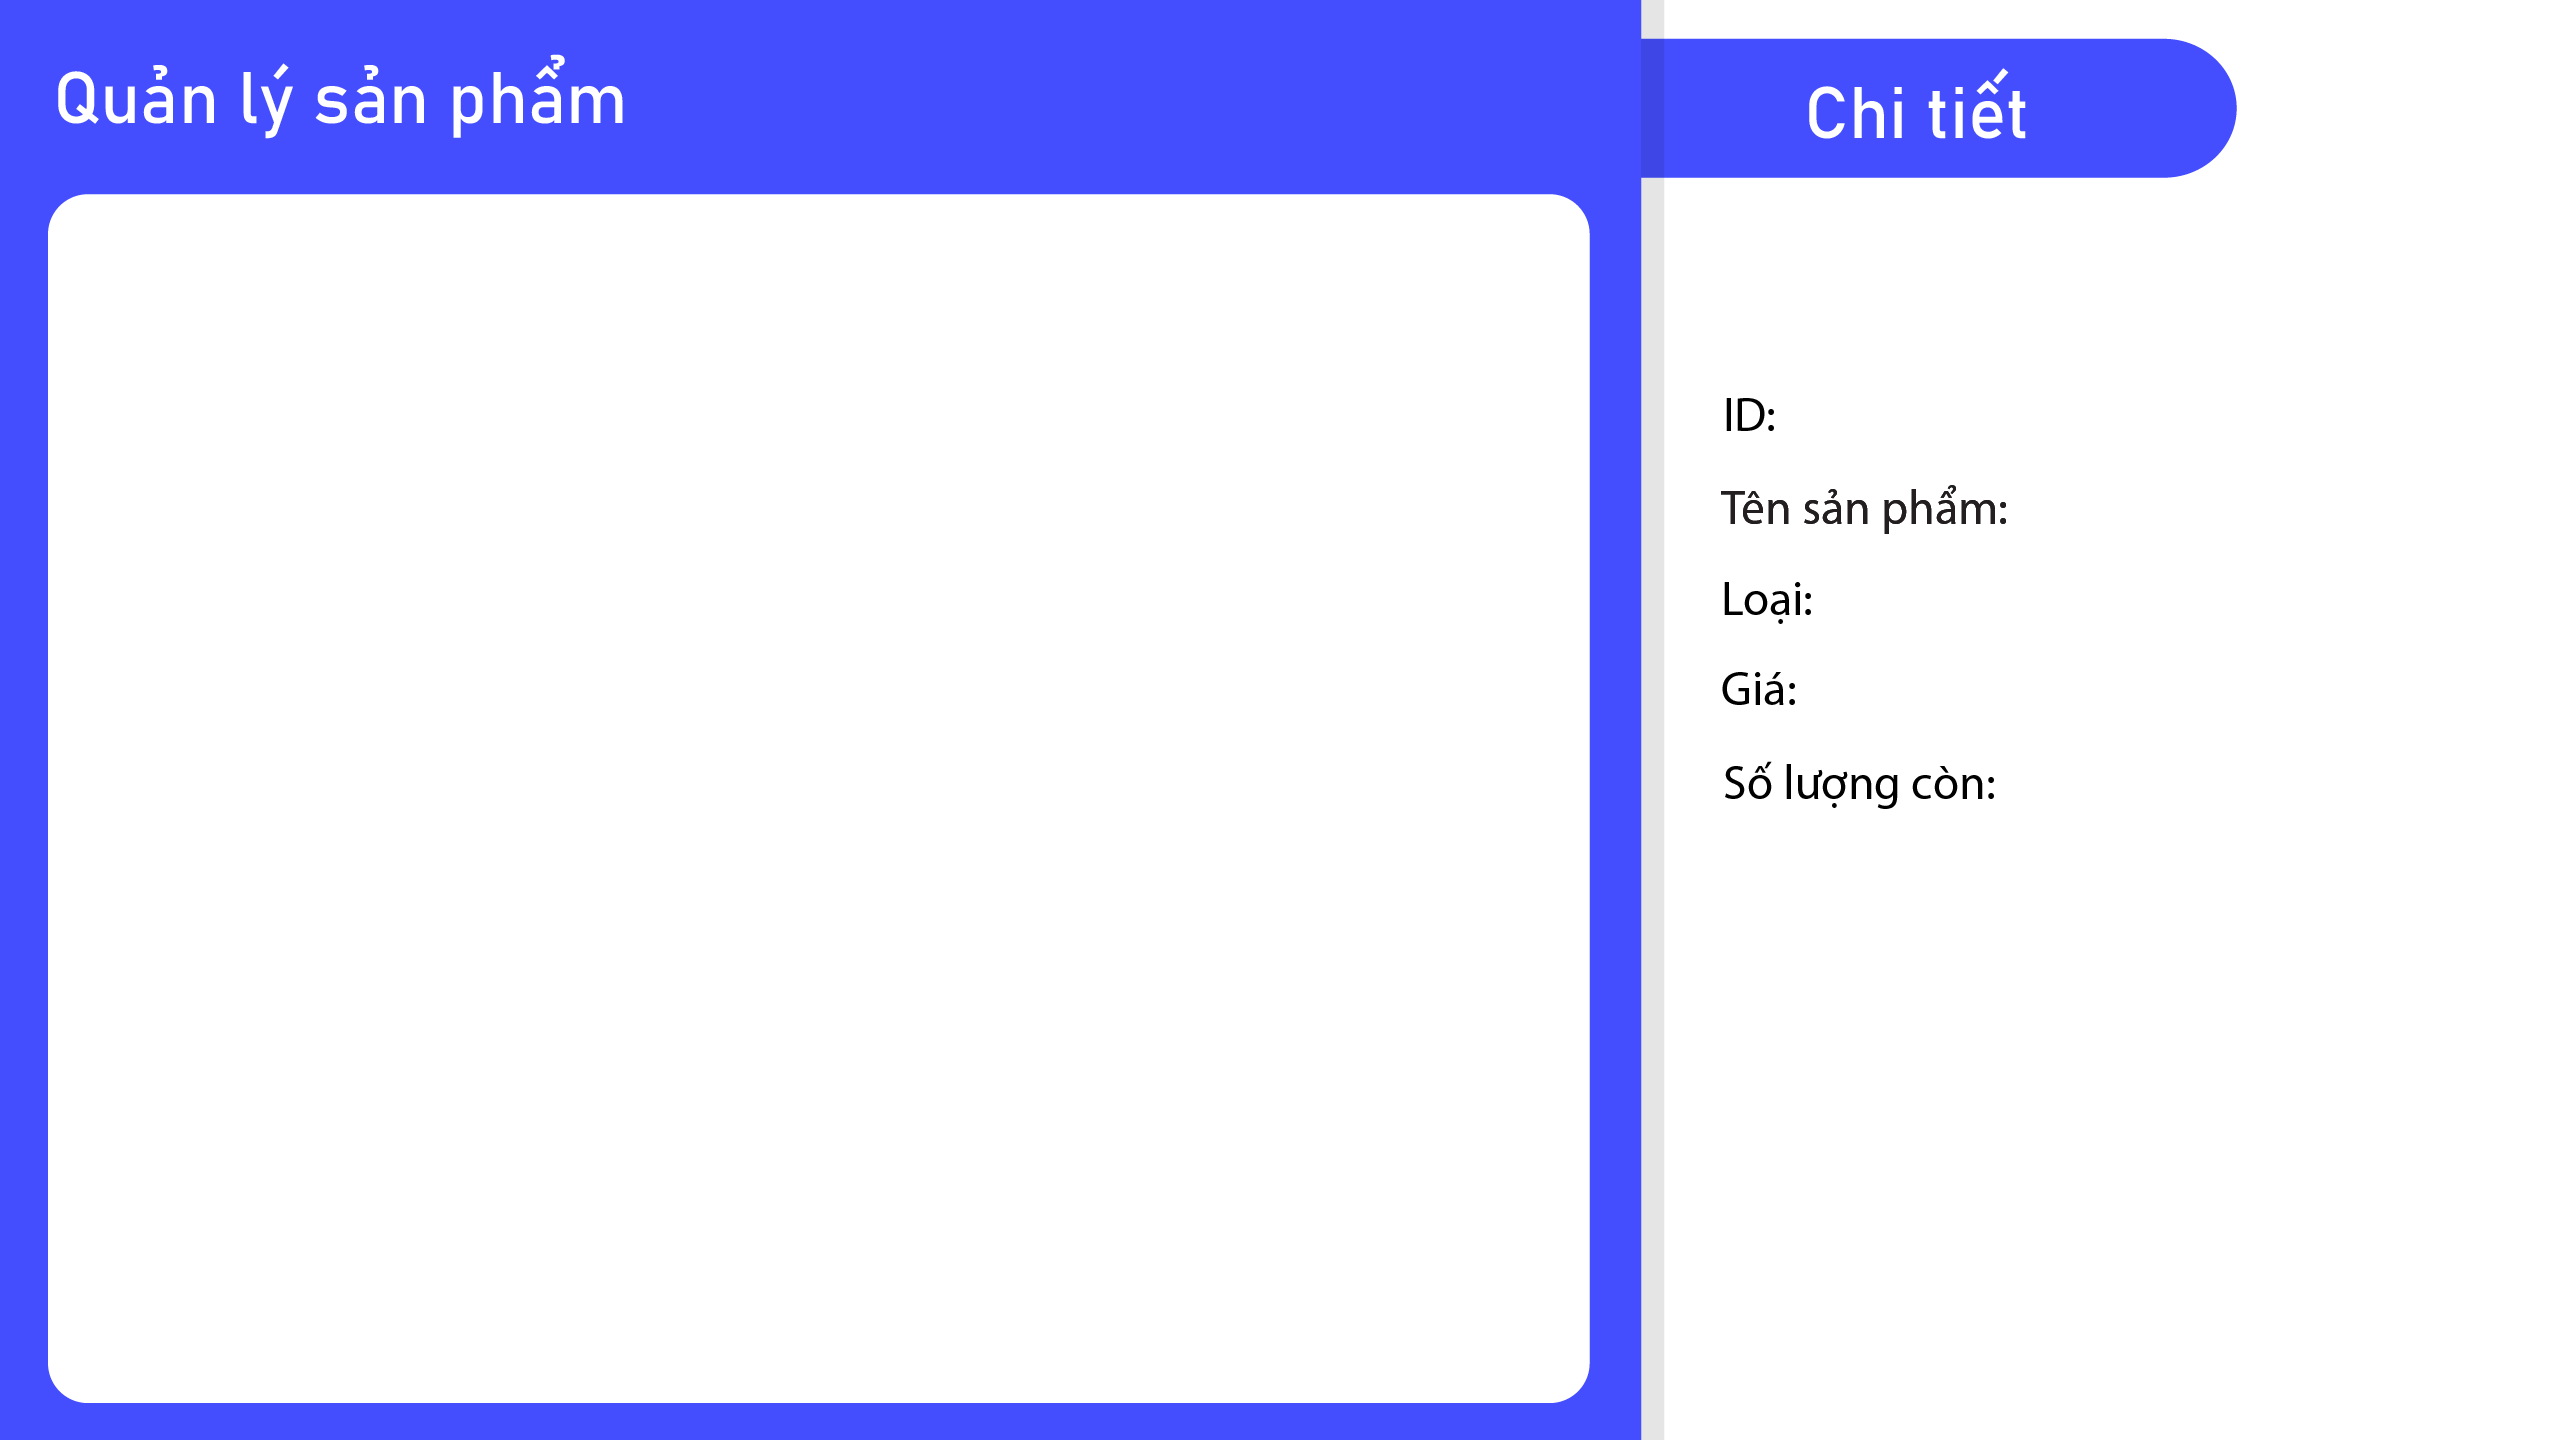
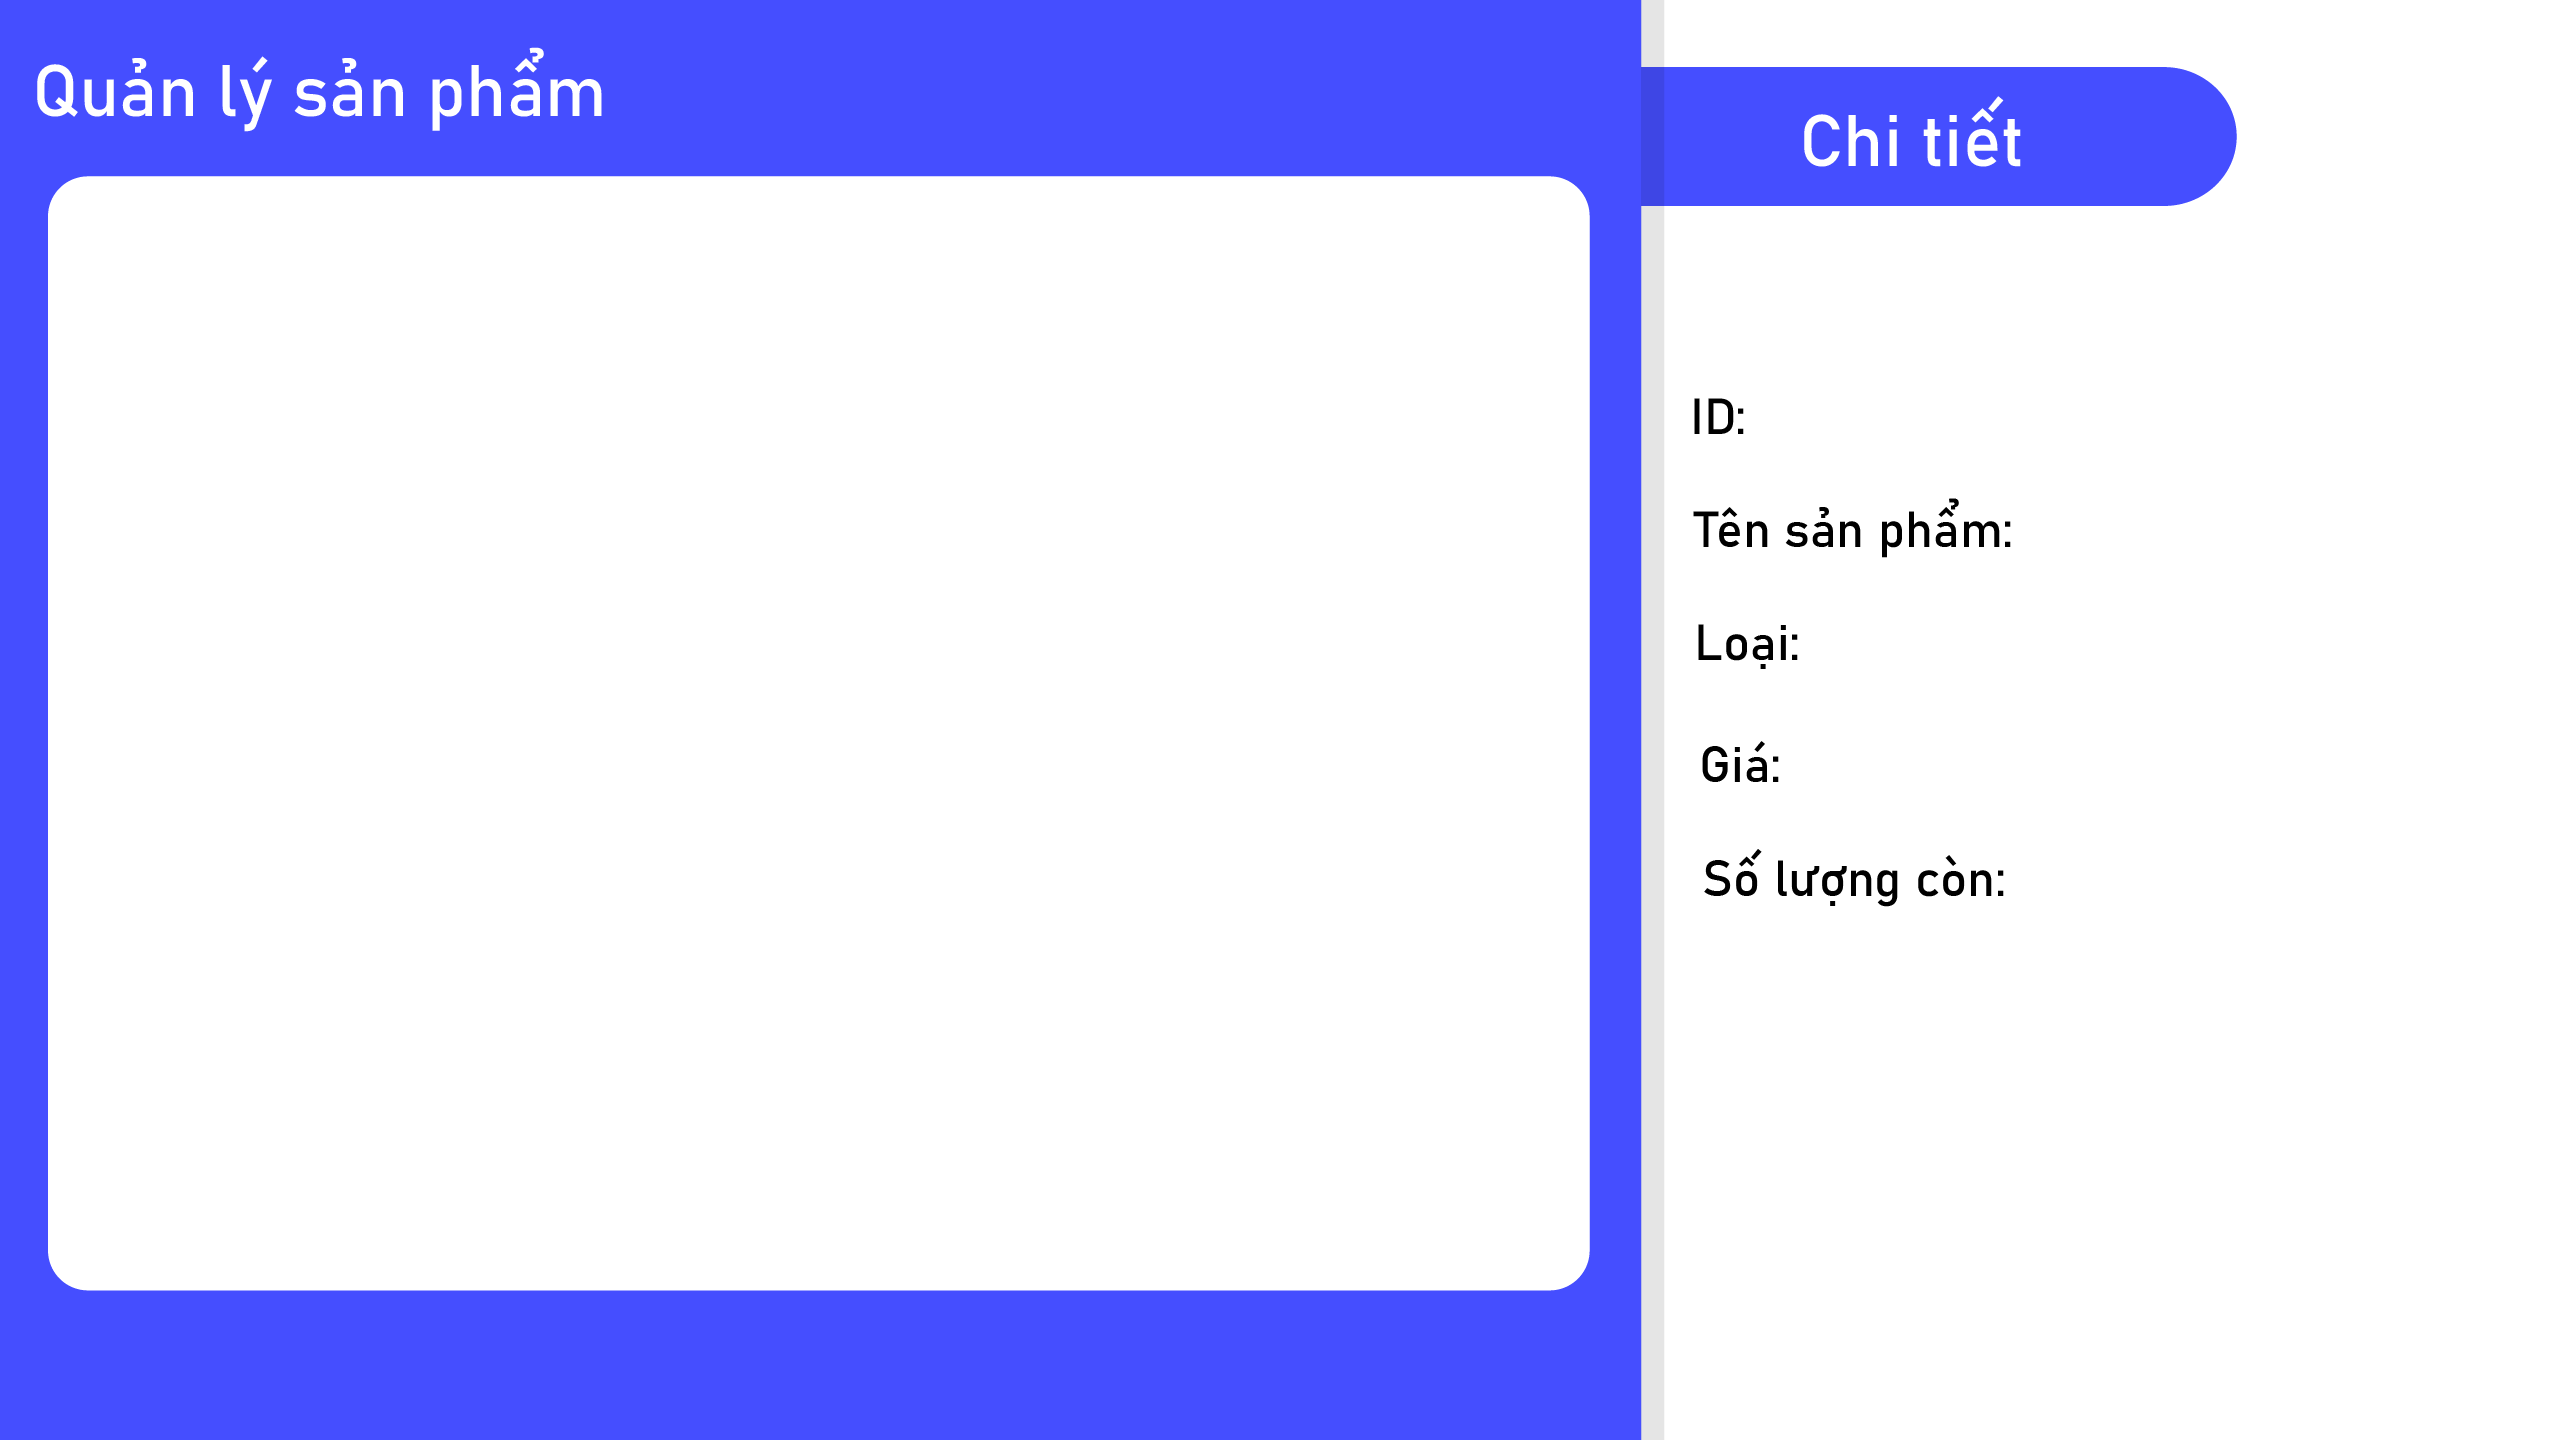
add new cart management view & update product management view

diff --git a/src/Views/CartManagement/tableview.css b/src/Views/CartManagement/tableview.css
@@ -1,0 +1,15 @@
+.table-view{
+    -fx-background-color: #fff;
+    -fx-background-radius: 10px;
+}
+
+.table-view .column-header{
+    -fx-background-color: #f3f3f3;
+    -fx-size: 40;
+
+
+}
+
+.table-row-cell {
+    -fx-cell-size: 30px;
+}

diff --git a/src/Controllers/CartController.java b/src/Controllers/CartController.java
@@ -1,0 +1,4 @@
+package Controllers;
+
+public class CartController {
+}
